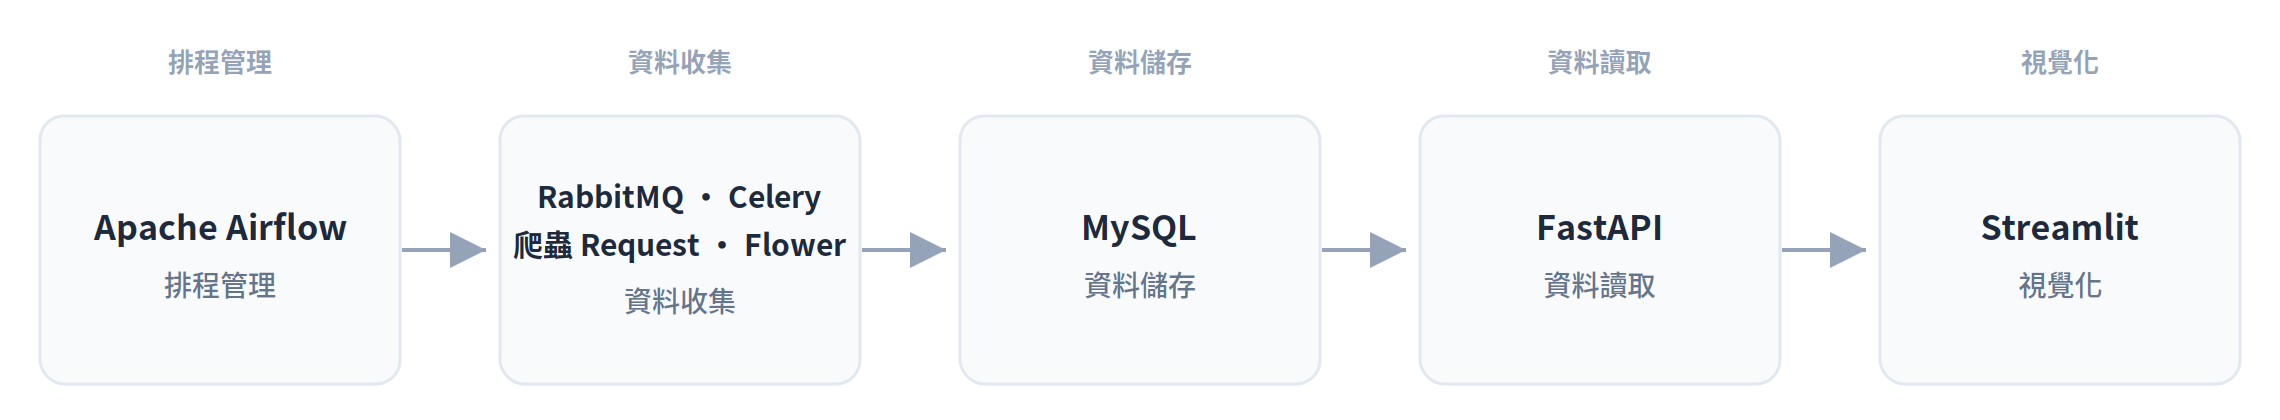
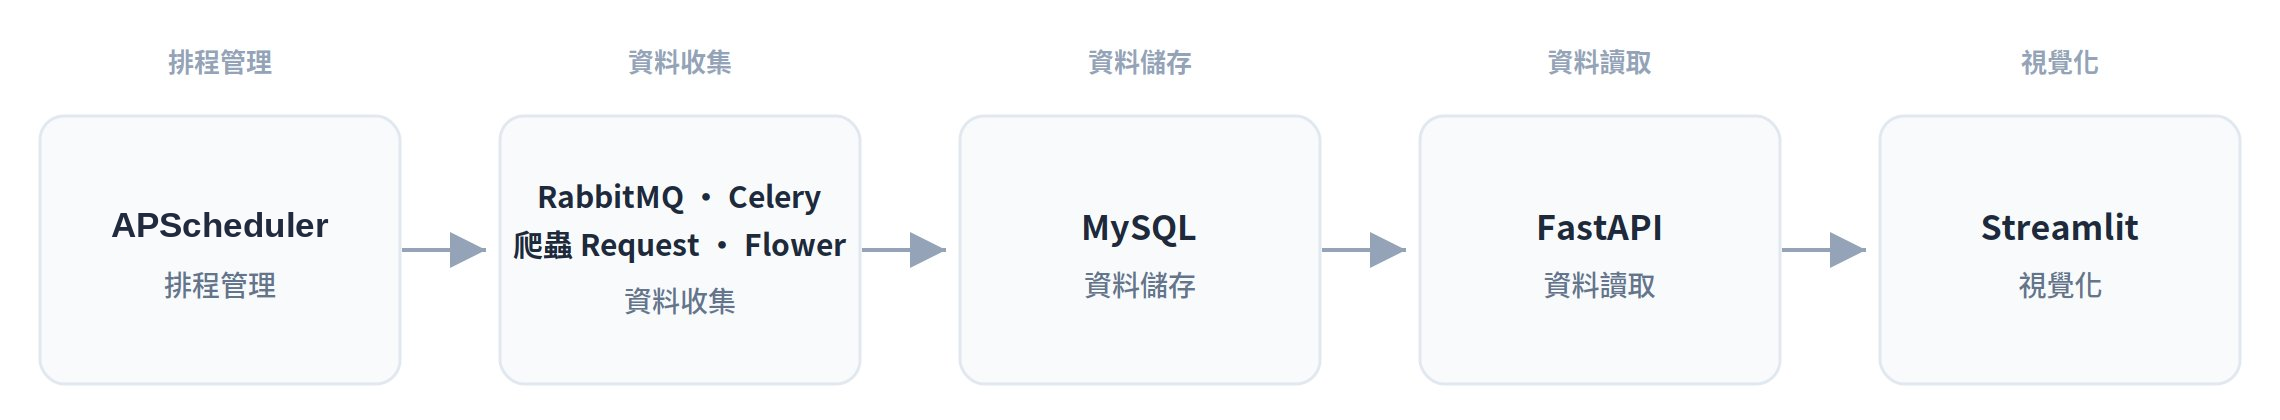
Update project status in README and modify architecture diagram

diff --git a/README.md b/README.md
@@ -164,8 +164,8 @@
 | 儀表板 | Python、Streamlit | ✅ 完成 |
 | 資料庫 | MySQL | ✅ 完成 |
 | 容器管理 | Portainer、Docker Swarm | ✅ 完成 |
+| 排程工作流 | Airflow(目前是APScheduler) | 🚧 處理中 |
 | 雲端平台 | GCP | 🚧 處理中 |
-| 排程工作流 | Airflow | 🚧 處理中 |
 
 ---
 
